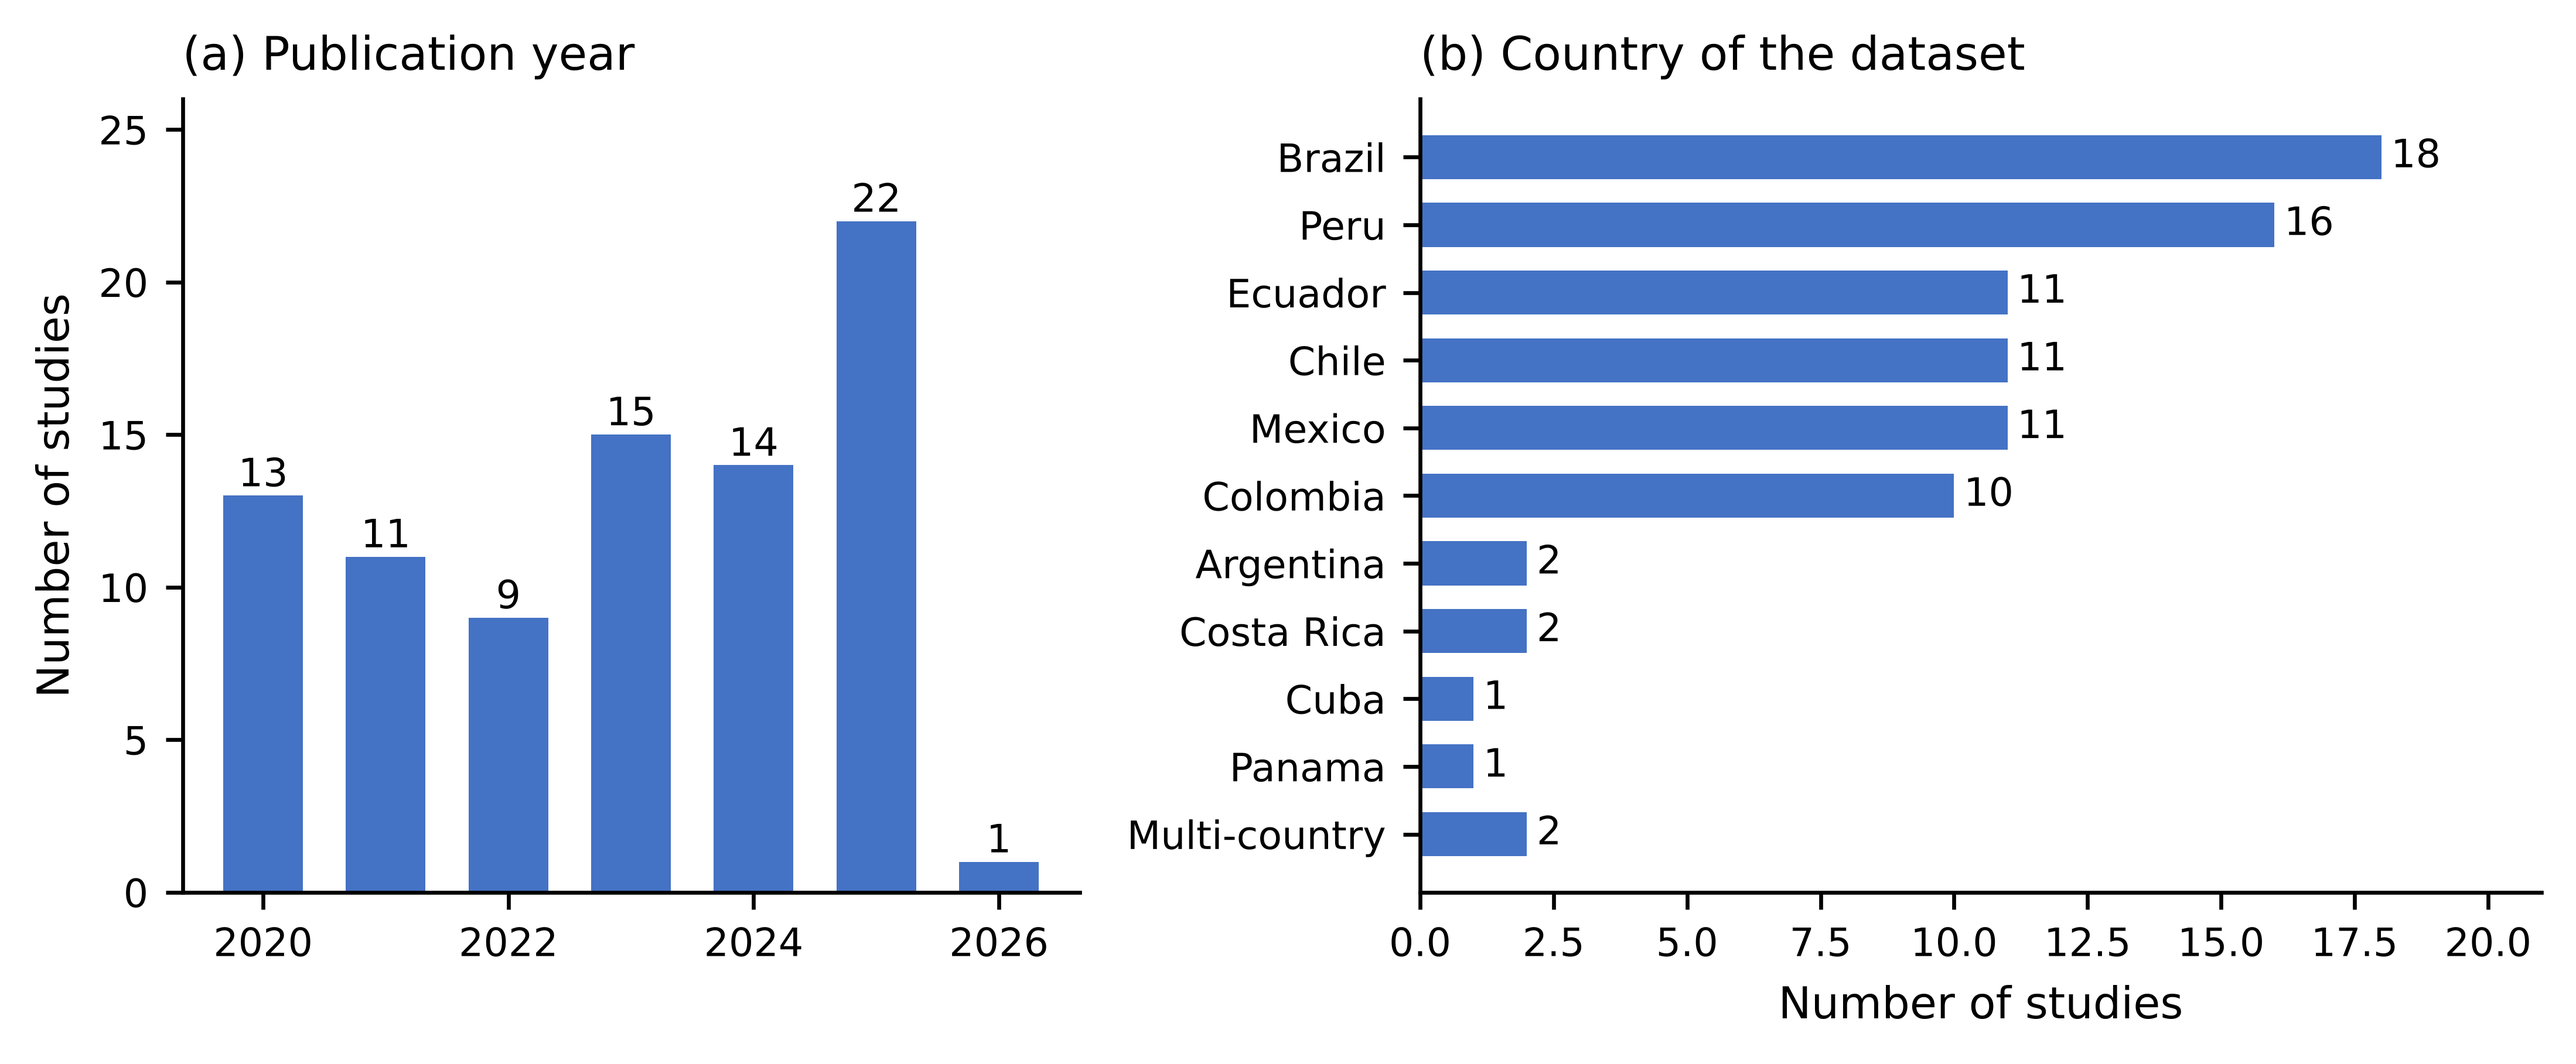
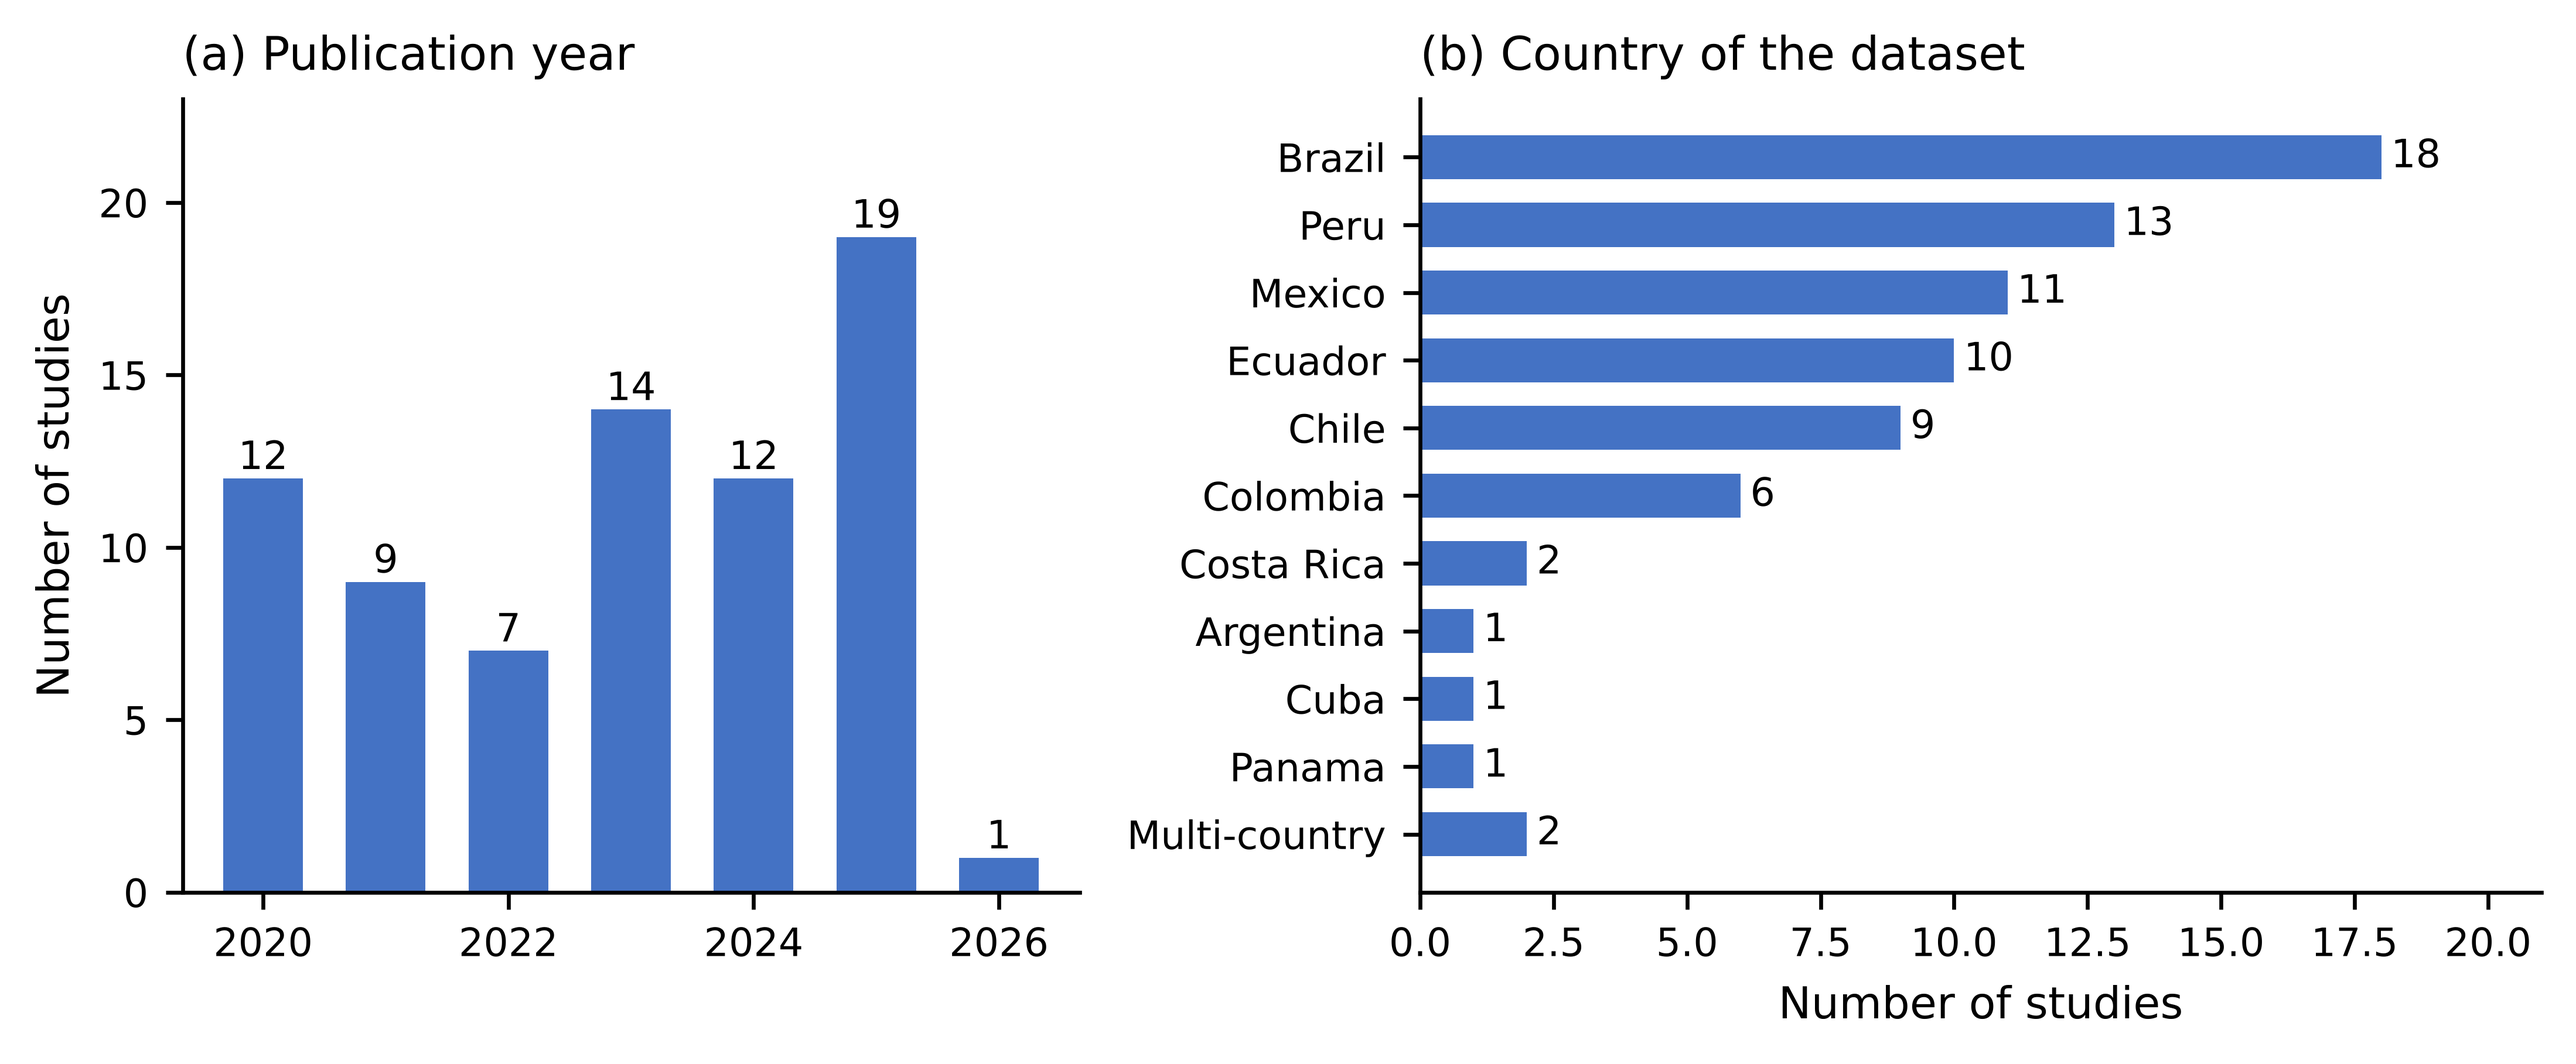
Add files via upload

diff --git a/05_Analysis/reproduce_results.py b/05_Analysis/reproduce_results.py
@@ -79,7 +79,7 @@ table([("All", rows)] + [(p, [r for r in rows if r["period"] == p]) for p in ("2
 
 # ---------------------------------------------------------------- 4. sensitivity analyses S1-S3
 TEAM = {"ART67_SCP", "ART226_SCP"}                                   # co-authored by the review team
-DISCUSSED = {"ART56_SCP", "ART323_WOS", "ART251_SCP", "ART369_WOS"}  # eligibility discussed during verification
+DISCUSSED = {"ART64_SCP", "ART323_WOS", "ART251_SCP"}  # book chapter, dropout intention, case discussed during verification
 table([("Main analysis", rows),
        ("S1: without team co-authored studies", [r for r in rows if r["Study ID"] not in TEAM]),
        ("S2: without studies whose eligibility required discussion", [r for r in rows if r["Study ID"] not in DISCUSSED]),
